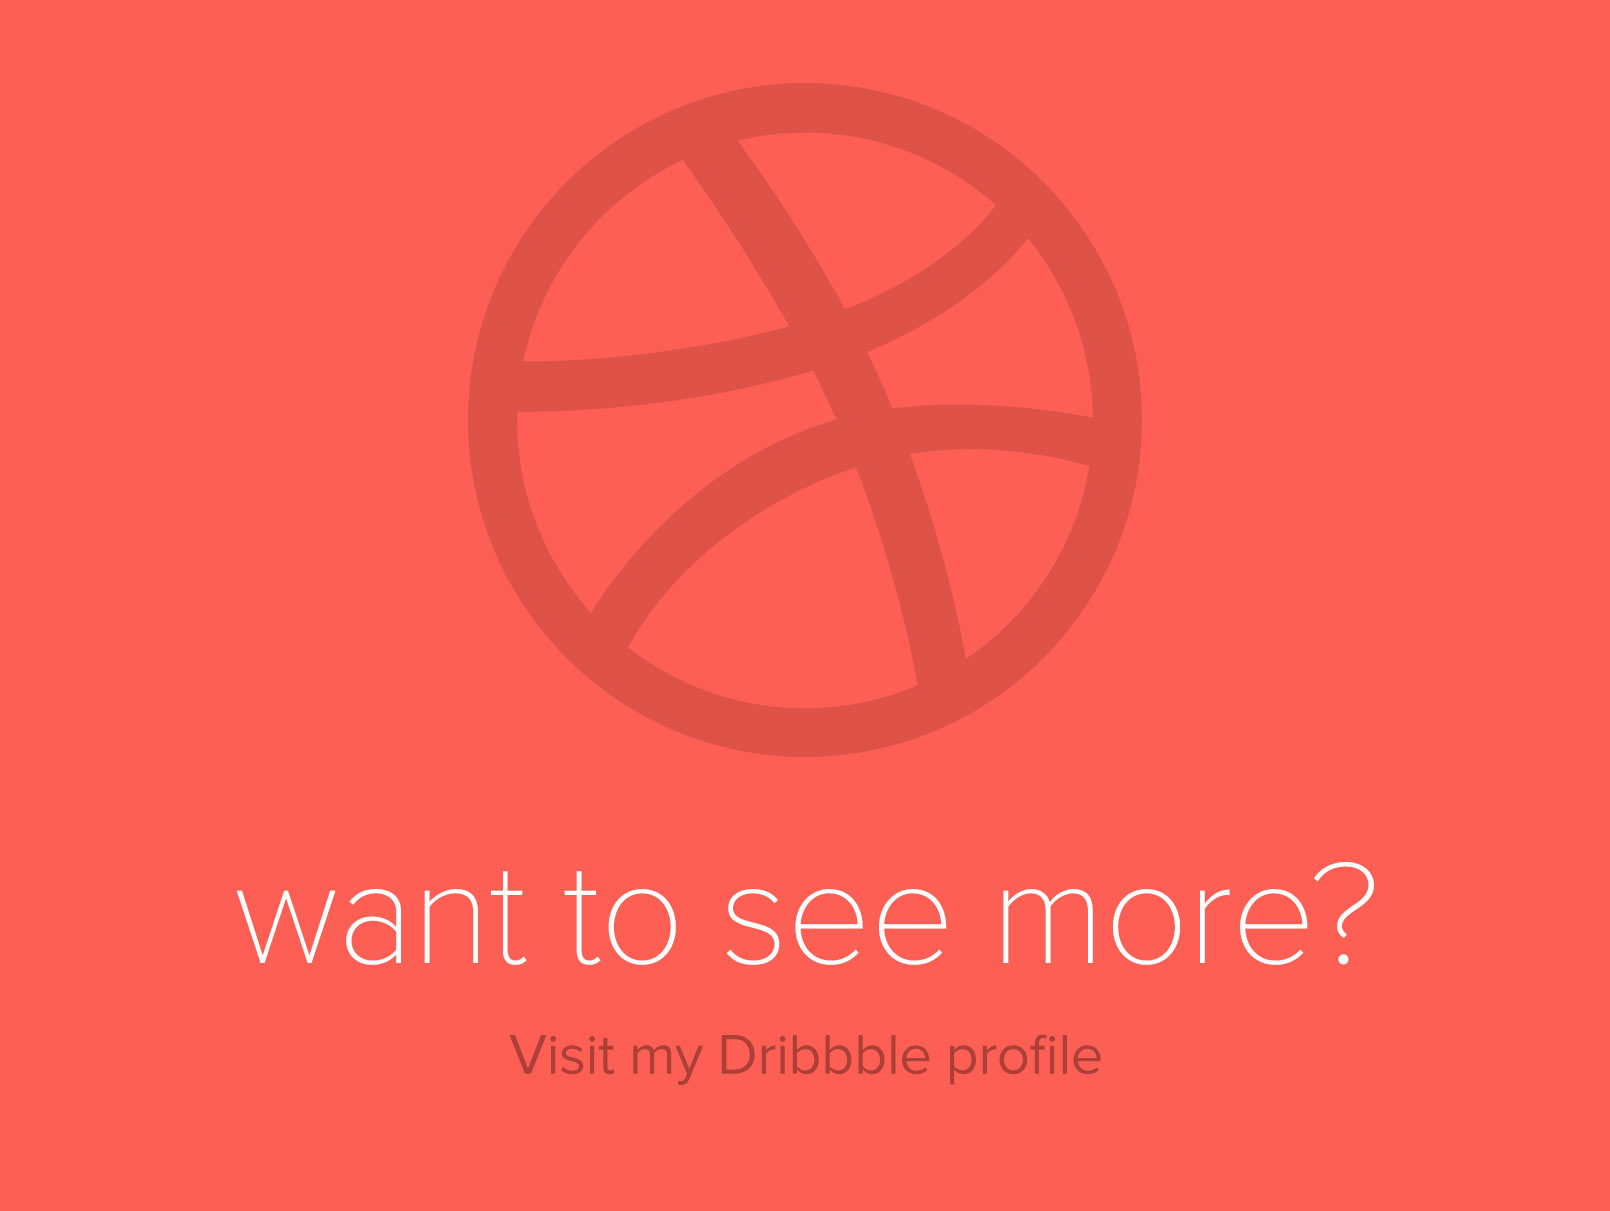
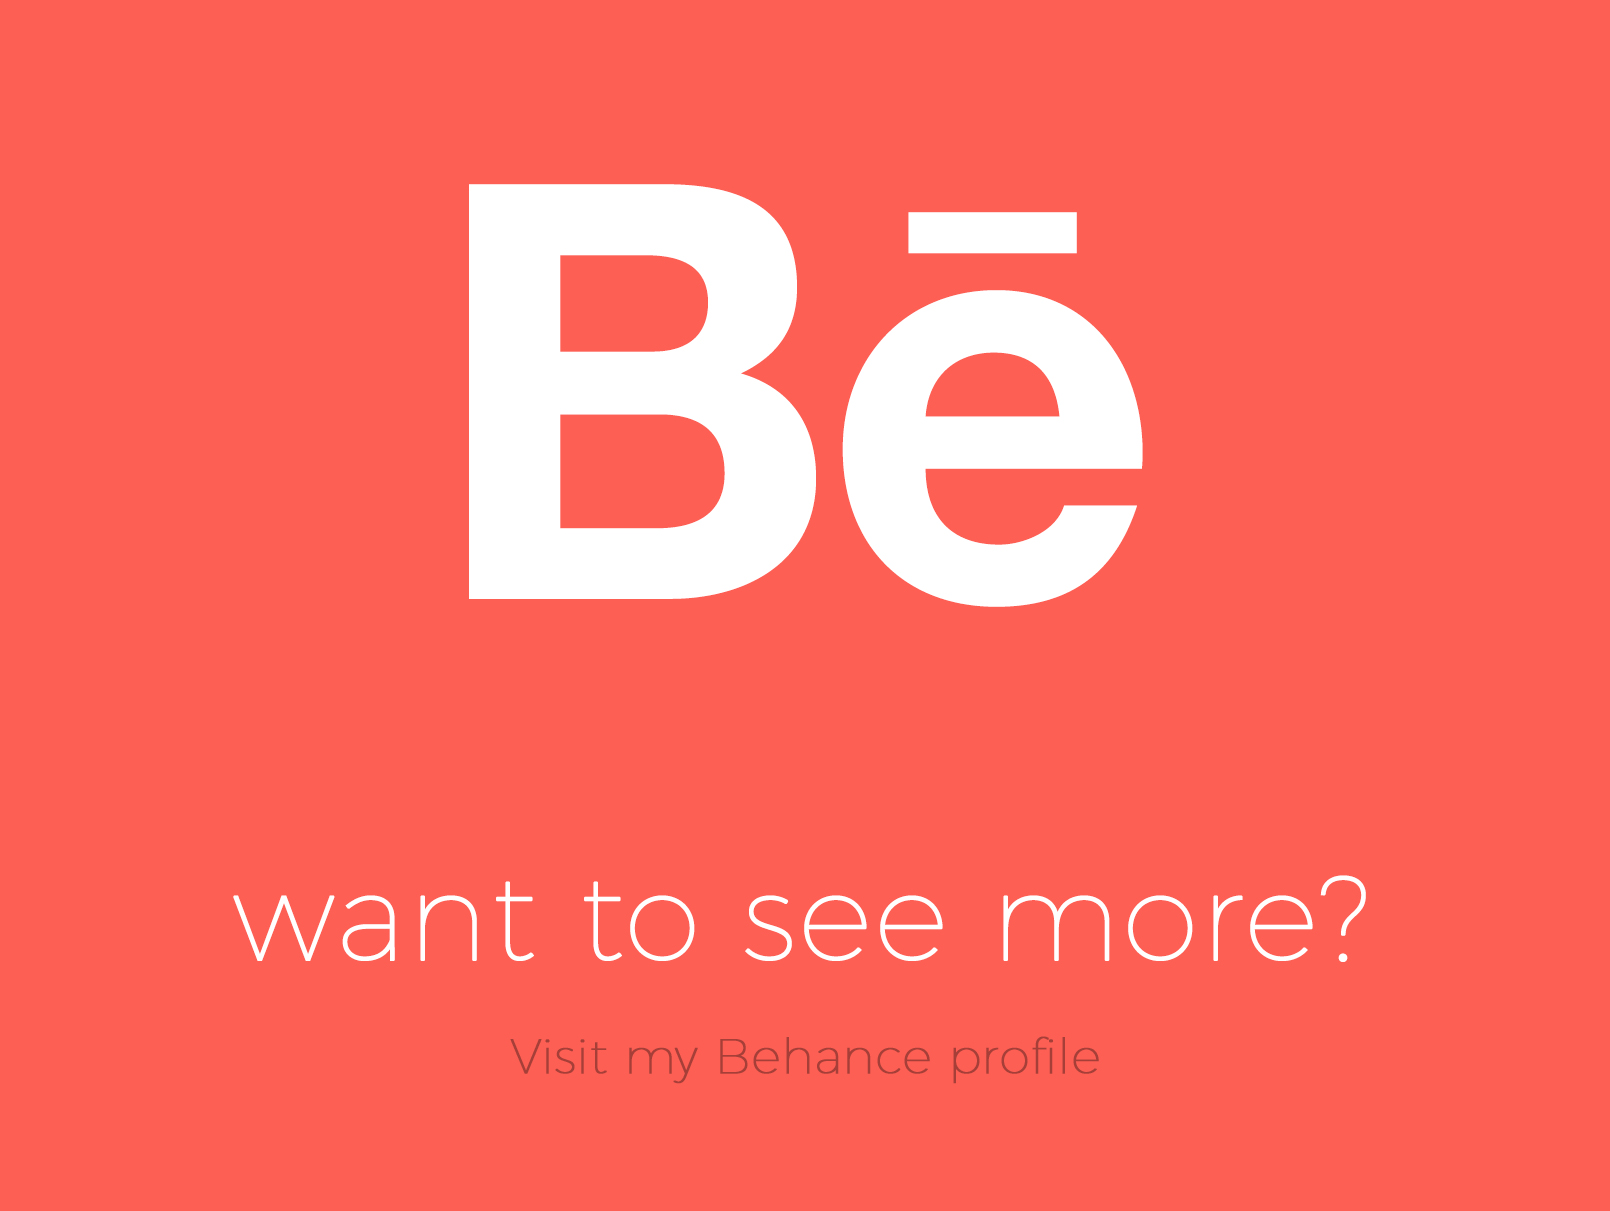
.

diff --git a/index.html b/index.html
@@ -301,7 +301,7 @@
 
                     <h2 class="name">Noshky</h2>
                     <p class="desc"> Declicious home cooked food delivered <br>right to your door step.</p>
-                    <a class="btn project" target="_blank" href="#">DRIBBLE SHOT</a>
+                    <a class="btn project" target="_blank" href="#">BEHANCE LINK</a>
                     <!--<a class="btn project" target="_blank" href="http://drbl.in/osRq">DRIBBLE SHOT</a>-->
 
 
@@ -314,7 +314,7 @@
                     <h2 class="name">Pilot APP</h2>
                     <p class="desc">Pilot App helps you to navigate <br>around any Airport.</p>
                     <!--<a class="btn project" target="_blank" href="http://drbl.in/nKES">DRIBBLE SHOT</a>-->
-                    <a class="btn project" target="_blank" href="#">DRIBBLE SHOT</a>
+                    <a class="btn project" target="_blank" href="#">BEHANCE LINK</a>
 
                 </li>
 
@@ -336,7 +336,7 @@
                     <h2 class="name">Dribbble App</h2>
                     <p class="desc">Material Design concept for Android.</p>
                     <!--<a class="btn project" target="_blank" href="http://drbl.in/mTdw">DRIBBLE SHOT</a>-->
-                    <a class="btn project" target="_blank" href="#">DRIBBLE SHOT</a>
+                    <a class="btn project" target="_blank" href="#">BEHANCE LINK</a>
 
                 </li>
 
@@ -345,16 +345,17 @@
                     <a href="#" class="prjct_img"><img src="img/projects/4.jpg" style="width:70%;" alt="Personal Website"/></a>
                     <h2 class="name">Personal Website</h2>
                     <p class="desc">This was my first portfolio website, <br>designed almost a year ago.</p>
-                    <a class="btn project" target="_blank" href="#">DRIBBLE SHOT</a>
+                    <a class="btn project" target="_blank" href="#">BEHANCE LINK</a>
                     <!--<a class="btn project" target="_blank" href="http://drbl.in/lCyr">DRIBBLE SHOT</a>-->
 
                 </li>
 
 
                 <li>
-                    <a href="#" class="prjct_img"><img src="img/projects/6.jpg" style="width:70%;" alt="Dribbble Profile"/></a>
+                    <a href="#" class="prjct_img"><img src="img/projects/6.jpg" style="width:70%;"
+                                                       alt="Behance Profile"/></a>
 
-                    <a class="btn project" target="_blank" href="#">Visit now</a>
+                    <a class="btn project" target="_blank" href="https://www.behance.net/codeman">Visit now</a>
 
                 </li>
 
